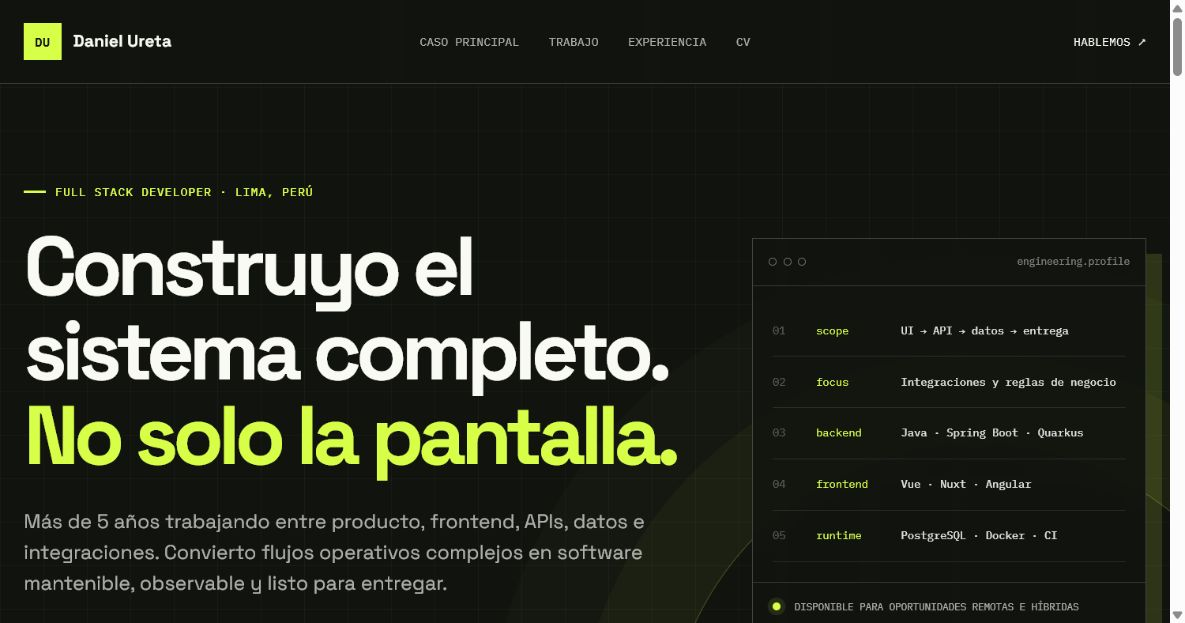
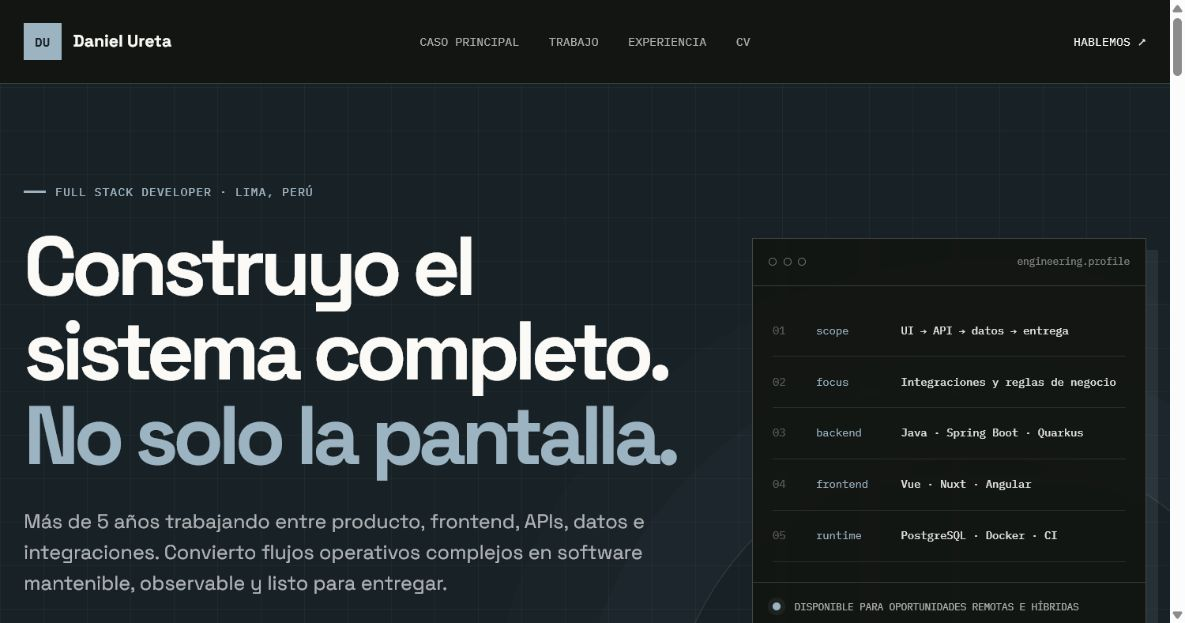
style: adopt a calmer professional palette

diff --git a/styles.css b/styles.css
@@ -1,13 +1,15 @@
 :root {
-  --ink: #11130f;
-  --ink-soft: #22251e;
-  --paper: #f0f0e8;
-  --paper-bright: #fafaf4;
-  --accent: #d8ff48;
-  --muted: #686b62;
-  --line: #babcb2;
-  --danger: #b43a32;
-  --success: #19724b;
+  --ink: #182126;
+  --ink-soft: #29363d;
+  --paper: #f3f2ef;
+  --paper-bright: #fbfaf7;
+  --accent: #9cb3c2;
+  --accent-soft: #dce6ec;
+  --accent-deep: #476778;
+  --muted: #65747c;
+  --line: #ccd0d1;
+  --danger: #a4544e;
+  --success: #3f7463;
   --max-width: 1240px;
 }
 
@@ -137,9 +139,9 @@ a {
   bottom: -260px;
   width: 630px;
   height: 630px;
-  border: 1px solid rgba(216, 255, 72, 0.28);
+  border: 1px solid rgba(156, 179, 194, 0.2);
   border-radius: 50%;
-  box-shadow: 0 0 0 90px rgba(216, 255, 72, 0.035), 0 0 0 180px rgba(216, 255, 72, 0.02);
+  box-shadow: 0 0 0 90px rgba(156, 179, 194, 0.025), 0 0 0 180px rgba(156, 179, 194, 0.012);
   content: "";
 }
 
@@ -258,7 +260,7 @@ h1 em {
 .hero-console {
   border: 1px solid rgba(255, 255, 255, 0.22);
   background: rgba(17, 19, 15, 0.82);
-  box-shadow: 16px 16px 0 rgba(216, 255, 72, 0.14);
+  box-shadow: 12px 12px 0 rgba(156, 179, 194, 0.11);
   backdrop-filter: blur(8px);
 }
 
@@ -331,12 +333,12 @@ h1 em {
   margin-right: 8px;
   border-radius: 50%;
   background: var(--accent);
-  box-shadow: 0 0 0 5px rgba(216, 255, 72, 0.1);
+  box-shadow: 0 0 0 5px rgba(156, 179, 194, 0.08);
 }
 
 .evidence-bar {
   border-bottom: 1px solid var(--ink);
-  background: var(--accent);
+  background: var(--accent-soft);
 }
 
 .evidence-grid {
@@ -565,7 +567,7 @@ h1 em {
   margin: 0;
   border: 1px solid var(--ink);
   background: var(--ink);
-  box-shadow: 18px 18px 0 var(--accent);
+  box-shadow: 12px 12px 0 var(--accent-soft);
   overflow: hidden;
 }
 
@@ -663,7 +665,7 @@ h1 em {
   margin: 0;
   padding: 3px 6px;
   color: var(--accent);
-  border: 1px solid rgba(216, 255, 72, 0.35);
+  border: 1px solid rgba(156, 179, 194, 0.3);
   font-size: 8px;
   letter-spacing: 0.05em;
 }
@@ -797,7 +799,7 @@ h1 em {
 .contact {
   padding-block: 100px;
   border-bottom: 1px solid var(--ink);
-  background: var(--accent);
+  background: var(--accent-soft);
 }
 
 .contact-grid {
@@ -965,7 +967,7 @@ footer {
   }
 
   .hero-console {
-    box-shadow: 8px 8px 0 rgba(216, 255, 72, 0.14);
+    box-shadow: 6px 6px 0 rgba(156, 179, 194, 0.1);
   }
 
   .console-body p {
@@ -1038,7 +1040,7 @@ footer {
   }
 
   .product-shot {
-    box-shadow: 8px 8px 0 var(--accent);
+    box-shadow: 6px 6px 0 var(--accent-soft);
   }
 
   .work-list {

diff --git a/index.html b/index.html
@@ -7,7 +7,7 @@
       name="description"
       content="Portafolio de Daniel Ureta Espinal, desarrollador Full Stack especializado en productos web, APIs, integraciones y sistemas Java."
     />
-    <meta name="theme-color" content="#11130f" />
+    <meta name="theme-color" content="#182126" />
     <meta name="robots" content="index, follow" />
     <link rel="canonical" href="https://daniel349167.github.io/" />
     <meta property="og:title" content="Daniel Ureta Espinal | Full Stack Developer" />